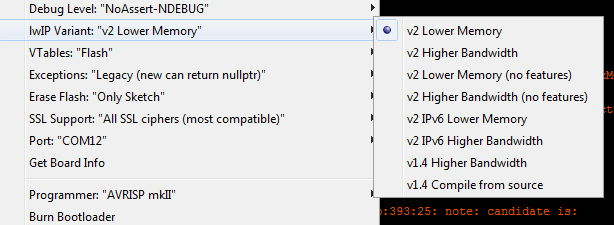
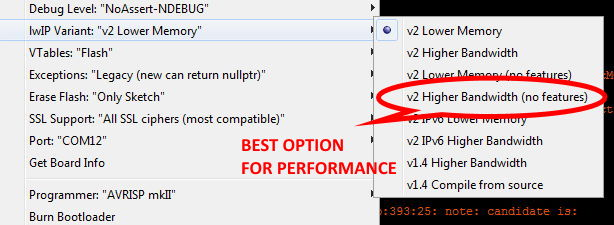
docs

Changed region(s): [[0.5879, 0.3111, 1.0, 0.56], [0.3713, 0.7156, 0.6498, 0.7778], [0.3713, 0.5911, 0.557, 0.6844]]

diff --git a/README.md b/README.md
@@ -1,13 +1,13 @@
 ![mbm](assets/pangoplain.jpg)
 
-# ArduinoIDE MQTT client library for ESP8266, ESP32 and STM32-NUCLEO
+# ArduinoIDE MQTT client library for ESP8266, ESP32 and STM32-NUCLEO*
 
-###### *Version 0.0.8 [Release Notes](docs/rn008.md)- Beta - not recommended (yet) for critical applications*
+###### Version 1.0.0 [Release Notes](docs/rn100.md) - This is a major release, API has many changes, READ THE NOTES!
 
 
 * [Features](#features)
 * [Performance](#performance)
-* [Comparison with AsyncMqttClient](#comparison-with-asyncmqttclient)
+* [Unique features](#features-you-may-not-find-in-other-libraries)
 * [Installation](#installation)
 * [Issues / Support](#issues--support)
 * [IMPORTANT NOTE FOR PLATFORMIO USERS](#important-note-for-platformio-users)
@@ -27,26 +27,18 @@
  * Full* MQTT v3.1.1 Qos0/1/2 compliance, session management and recovery
  * Payload size limited only by available heap (~20kB on ESP8266, ~120kb on ESP32)
  * TLS support (ESP8266 only)
- * Compilable diagnostics and testing topics:
-   * dump
-   * reboot
-   * disconnect
-   * break selected QoS1/2 handshakes for session recovery testing
+ * Compile time multilevel diagnostic
  * Utility functions to view binary payloads and handle as:
    * C-style string (`char*`)
    * `std::string`
    * Arduino `String`
-   * `int` from any the above string types
- * Error-handling for:
+   * < any arithmetic type >
+ * Full error-handling including:
    * QoS failures*
    * Subscribe failure
    * "Killer" packets ( > free available heap) both inbound and outbound
 
-**NB** *No device can *fully* comply with MQTT 3.1.1 QoS unless it has unlimited permanent storage to hold failed QoS messages across reboots. A future version will use LittleFS to perform this function. For more in depth explanation of the reasons, read [Challenges of MQTT QoS on embedded systems](docs/qos.md) which compares how the inevitable shortfall is handled by three different libraries:
-
-* `PubSubClient`  - not at all: QoS0 only and 128-byte payload limit
-* `AsyncMqttClient` - poorly / not at all: crashes on huge inward packets, limits outbound to 1-2kB and loses QoS1/2 recovery messages, fails to attempt session recovery and has no method of informing the user of either failure. Put simply, *it doesn't work*
-* `Pangolin` (*this* library) - as far as is technically possible, while informing the user of inevitable inherent failures.
+**NB** *No device can *fully* comply with MQTT 3.1.1 QoS unless it has unlimited permanent storage to hold failed QoS messages across reboots. For more in-depth explanation of the reasons, read [Challenges of MQTT QoS on embedded systems](docs/qos.md) 
 
 ---
 
@@ -56,127 +48,42 @@
 
 ---
 
-## Quick Start for existing users of `AsyncMqttClient`
-
-Pangolin *tries* to preserve API compatibility with `AsyncMqttClient` but that library contains illogical and incorrect features, which means that you will have to make minor changes to two or three lines of code in your existing apps before using them with Pangolin.
-
-Those have been "fixed" in this release of Pangolin *only* to make it quick and easy for users to move their apps to Pangolin with minimum effort and without compile errors, but they *will* change to "sensible" equivalents in the next release.
-
-For an in-depth analysis (with evidence) of those problems, read [API issues](api.md)
-
-Take a look at the first - very simple - example which exists in two forms: A ["P_" version](examples/QuickStart_P/QuickStart_P.ino) which uses Pangolin and an ["A_" version](examples/QuickStart_A/QuickStart_A.ino) which uses `AsyncMqttClient`. A side-by-side comparison of the two shows the very minimal changes required to get you up and running. (Also a single glance at the [comparison](#comparison-with-asyncmqttclient) of the two outputs gives a good overview of the major differences between Pangolin and `AsyncMqttClient`)
-
-The remainder of the Examples can be compiled for either Pangolin or AsyncMqttClient to allow you to compare the two libraries in the few cases where AsynClientMqtt doesn't fail. See the [Example Sketches](docs/examples.md) on how to run them and get the best out of the code.
 
 ---
 
-## A better API
+# Features you may not find in other libraries:
 
-In the table below, **CHG** = those few API calls that have *had* to be changed just to "make sense" for the first release. These serve as a handy guide to the minimum you need to change in your current code.
+## Large Payloads
 
-**DEP** calls are "deprecated" which means they will change at the next release (this automatically includes those in the CHG category)
+Pangolin automatically fragments outbound packets and reassembles inbound packets of any size up to about 1/2 the free heap. User code simply gets a copy of the full packet - irrespective of its size - without any fuss and requiring *zero* code on the user's part.
 
-**REM** shows calls which will be completely removed at the next release for one of these reasons:
+## Full QoS1 / QoS2 compatibility / recovery
 
-1. They have no practical function
-2. They have confusing and/or misleading parameters
-3. Both of the above
+PangolinMQTT's author is unaware of any similar libraries for ESP8266/ESP32 that *fully* and *correctly* implement QoS1/2 *in all circumstances*.
 
-**NEW** shows functions only available in Pangolin which provide functionality required for correct operation but which `AsyncMqttClient` does not provide.
+They *may* sometimes work, e.g. with only small packets and/or slow send rates but fail when either increases. None will correctly recover "lost" messages on unexpected disconnect. Given that this is pretty much the *only* purpose of QoS1/2 then any library *not* fulfilling this promise *cannot* legitimately claim to be QoS1/2 compatible. If a library does not do this:
 
-Missing from the table below are the following, which live in the `PANGO::` namespace and are designed to make a very simple task of *correct* payload handling.
+![mqtt spec](assets/pv2mqtt.jpg)
 
-```cpp
-void                dumphex(uint8_t* mem, size_t len,uint8_t W);
-char*               payloadToCstring(uint8_t* data,size_t len);
-int                 payloadToInt(uint8_t* data,size_t len);
-std::string         payloadToStdstring(uint8_t* data,size_t len);
-String              payloadToString(uint8_t* data,size_t len);
-```
+Then it ***does not support QoS1/2*** no matter what claims it may make.
 
-**TODO** Update diagram
-
-![api](assets/api.jpg)
-
-Full details, explanation and rationale for the changes [here](docs/api.md)
-
-## And NONE of this (so far: it's "alpha"!)
-
-![setwill](assets/willtopic_shark.jpg)
-
----
-
-# Comparison with AsyncMqttClient
-
-This is the screenshot of the outputs of the two versions of the first example sketch, the first running [`AsyncMqttClient`](examples/QuickStart_A/QuickStart_A.ino) and the  second running [Pangolin](examples/QuickStart_P/QuickStart_P.ino)
-
-![cpmpare](assets/compare.jpg)
-
-As you can see there are (at least) four major benefits of using Pangolin over `AsyncMqttClient` right from the start:
-
-## 1 Large Payloads
-
-### Executive summary
-
-Pangolin handles any sized payload up to 1/2 the available heap both inbound and outbound. `AsyncMqttClient` cannot properly handle even medium-sized packets outbound and simply makes no attempt to handle large inbound packets, expecting the user to do it. [Read more](docs/bugs.md)
-
-### TL;DR The `AsyncMqttClient` way
-
-`AsyncMqttClient` can only *correctly* handle a maximum *outbound* payload size* of the TCP MSS size*. "What's that?" I hear you ask. Exactly. It's an implementation-dependent value that `AsyncMqttClient` provides no way for you to discover. It changes according to the ArduinoIDE build settings.
-
-![tcp mss](assets/lwip.jpg)
-
-If you choose the "Lower Memory" option it is 536, "Higher Bandwith" gives you 1460. Despite the fact that ArduinoIDE allocates 2x this size (e.g. 1072 vs 2920) it seems that `AsyncMqttClient` has ["issues"](docs/bugs.md) dealing with anything over the buffer size.
-
-### TL;DR The Pangolin way
-
-Pangolin automatically fragments outbound packets and reassembles inbound packets of any size up to about 1/2 the free heap. User code simply gets a copy of the full packet - irrespective of its size - without any fuss and requiring *zero* code on his/her part.
-
-It also provides a new function `getMaxPayloadSize` and a new `onError` callback that allows the users to safely and informatively handle any "killer packet" scenario without crashing.
-
-## 2 *Significant* performance improvements
-
-### Executive Summary
-
-Pangolin is simply faster, full stop. The exact amount depends to a great extent on the size / frequency / combination of inbound/outbound messages, but in certain instances can show *huge* improvements. See the [examples](docs/examples.md) for more detail.
-
-## 3 Additional functionality
-
-### Executive Summary
-
-`AsyncMqttClient` seems to assume all payloads are strings. Not only is *not* the case, but it provides no functions to assist the user in examining, parsing, converting  or "unpacking" the payload.
-
-Pangolin provides:
-
-```cpp
-void                dumphex(uint8_t* mem, size_t len,uint8_t W);
-char*               payloadToCstring(uint8_t* data,size_t len);
-int                 payloadToInt(uint8_t* data,size_t len);
-std::string         payloadToStdstring(uint8_t* data,size_t len);
-String              payloadToString(uint8_t* data,size_t len);
-```
-
----
-
-## 4 Stability
-
-Pangolin is "alpha" so *of course* it is likely to contain bugs. What *can* be said though is that whatever yet-to-be-found bugs it may still contain, even at this first release it does *not* contain the bug that causes `AsyncMqttClient` to regularly (but at random) enter a disconnect/reconnect cycle - which is *so* common it will be referred to from now as "DCX/CNX". Neither does it contain the bug which prevents AsyncMqttClient from totally failing to implement QoS1 and 2, nor any of the other 16 fatal bugs in AsyncMqttClient [listed here](docs/bugs.md)
-
-At the time of writing, a "soak test" of the [Session Recovery 2 example sketch](examples/SessionRecovery2/SessionRecovery2.ino) shows that PangolinMQTT has been running for 426023 seconds (118.34 hours, 4.93 days) without a single reconnection or message lost, while sending and receiving a QoS2 message every second.
-
-![soak](/assets/soak.jpg)
+Pangolin has been tested to be QoS1/2 compatible and contains 2 [example sketches](examples/SessionRecovery1/SessionRecovery1.ino) to demonstrate this feature.
 
 ---
 
 # Installation
 
-Pangolin depends upon the excellent libraries [ESPAsyncTCP](https://github.com/me-no-dev/ESPAsyncTCP) (for ESP8266 targets) or [AsyncTCP](https://github.com/me-no-dev/AsyncTCP) for ESP32 targets.
+Pangolin depends upon [ESPAsyncTCP](https://github.com/me-no-dev/ESPAsyncTCP) (for ESP8266 targets) or [AsyncTCP](https://github.com/me-no-dev/AsyncTCP) for ESP32 targets.
 
-You will need to install one or both of those before using Pangolin
+You will need to install one or both of those before using Pangolin.
 
-See also [Using TLS](docs/tls.md) for additional dependencies
+HOWEVER: [ESPAsyncTCP](https://github.com/me-no-dev/ESPAsyncTCP) ***contains a serious bug which prevents it compiling with SSL when using TLS secure connections***. 
 
-See also [STM32 targets](docs/stm32.md) for additional dependencies and information on using Pangolin on STM32-NUCLEO boards
+PangolinMQTT's author has provided a bugfix version of the above library, see [Using TLS](docs/tls.md) for additional information
+
+## Compiling
+
+![performance](assets/lwip.jpg)
 
 ---
 
@@ -184,22 +91,41 @@ See also [STM32 targets](docs/stm32.md) for additional dependencies and informat
 
 ## IMPORTANT NOTE FOR PLATFORMIO USERS
 
-Pangolin is an *Arduino library*, and is 100% compatible with the ArduinoIDE and build system. PlatformIO, sadly, ***is not***. If PlatformIO has problems with code that compiles and runs correctly under ArduinoIDE, then it is a ***PlatformIO problem***, not an issue with this - or any other - valid Arduino library.
+Pangolin is an *Arduino library*, and is 100% compatible with the ArduinoIDE and its build system. PlatformIO, sadly, ***is not***. If PlatformIO has problems with code that compiles and runs correctly under ArduinoIDE, then it is a ***PlatformIO problem***, not an issue with this - or any other - valid Arduino library.
 
-For over 3 years I have been notifying the PlatformIO team of errors in their build setting related to the use of non-standard and non ArduinoIDE-compatible architecture #defines which break *many* vaild Arduino libraries. For over 3 years they have failed to fix it,so I refuse to provide any support on any of my 100% Arduino compatible libraries for users of PlatformIO until they do.
-
-For this reason, I will not accept any issues relating to build problems with PlatformIO, nor any pull requests or other suggestions which involve any changes that render the library less than 100% ArduinoIDE compatible. If you don't like this, you have two options:
+For well over 3 years I have been notifying the PlatformIO team of errors in their build setting related to the use of non-standard and non ArduinoIDE-compatible architecture #defines which break *many* valid Arduino libraries. They have failed persitently to fix their own problems, so I will not accept any issues relating to build problems with PlatformIO, nor any pull requests nor other suggestions which involve any changes that render the library less than 100% ArduinoIDE compatible. If you don't like this, you have two options:
 
 * Petition, moan, complain to PlatformIO dev team to make it 100% Arduino-compatible
-* Use another library: my position ***will not change*** until PlatformIO ~~get off their lazy asses~~ fix their problems
+* Use another library: my position ***will not change*** until PlatformIO ~~get off their lazy asses~~ fix their problems, so don't waste your time or mine asking.
 
 ## Non PlatformIO-related issues
 
-Obviously I will check the issues here from time to time, but if you want a rapid resonse, I can usually be found moderating on of these FB groups, including a new one especially set up for Pangolin users:
+Your **first** point of contact should be one of the facebook groups below, if only to let me know you have raised an issue here. Obviously I will check the issues from time to time, but I do no have the time to check every day.
+
+If you want a rapid response, I am daily moderating those FB groups, including a new one especially set up for Pangolin users:
+
+## Before submitting an issue
+
+If you do not provide sufficient information for me to be able to replicate the problem, ***I CANNOT FIX IT***
+
+So, always provide: the MCU/board type, a good description of the problem, how / when / why it happens and how to recreate it, as well as the full source code, relevant Serial output messages and a DECODED stack trace in the event of a crash.
+
+## And finally...
+
+This is open-source, I do it in my own time, for free. If you want professional-level support because you are using *my* work to benefit your own commercial gain, then I'm happy to talk privately about a paid contract. Or you can support me on [Patreon](https://www.patreon.com/esparto) 
+
+Until then, be polite, accept my advice / decisions gracefully or you will be blocked: it's that simple.
+
+---
+
+## Find me daily in these FB groups
 
 * [Pangolin Support](https://www.facebook.com/groups/pangolinmqtt/)
 * [ESP8266 & ESP32 Microcontrollers](https://www.facebook.com/groups/2125820374390340/)
 * [ESP Developers](https://www.facebook.com/groups/ESP8266/)
 * [H4/Plugins support](https://www.facebook.com/groups/h4plugins)
+
+I am always grateful for any $upport on [Patreon](https://www.patreon.com/esparto) :)
+
 
 (C) 2020 Phil Bowles

diff --git a/docs/tls.md b/docs/tls.md
@@ -9,24 +9,45 @@ Unfortunately the standard [ESPAsyncTCP](https://github.com/me-no-dev/ESPAsyncTC
 
 You must replace that library with this [bugfixed version](https://github.com/philbowles/ESPAsyncTCP)
 
-# Code
+# Compiling with SSL
 
-You must provide a SHA1 fingerprint to confirm the server identity, and call `serverFingerprint` before connection, e.g.
+SSL Features are NOT available by default. This is because they add about 64k to the binary, *even if you don't use them*! 
+
+In order to use TLS, you first need to enable SSL in both the [bugfixed library](https://github.com/philbowles/ESPAsyncTCP): Edit `async_config.h` 
+and PangolinMQTT itself: Edit `config.h`
+
+In both files, find the line which says:
+`#define ASYNC_TCP_SSL_ENABLED 0`
+
+and change it to:
+`#define ASYNC_TCP_SSL_ENABLED 1`
+
+before compiling.
+
+# Your Code
+
+You must provide a 20-byte SHA1 fingerprint to confirm the server identity, and call `serverFingerprint` before connection, e.g.
 
 ```cpp
 ...
 const uint8_t cert[20] = { 0x9a, 0xf1, 0x39, 0x79,0x95,0x26,0x78,0x61,0xad,0x1d,0xb1,0xa5,0x97,0xba,0x65,0x8c,0x20,0x5a,0x9c,0xfa };
 ...
   mqttClient.serverFingerprint(cert);
+  ...
+  mqttClient.connect(...
 ...
 ```
 
-# Example sketches
+---
 
-quickstart bare size: 271052
-+ TLS = 334604
-diff 63552
+## Find me daily in these FB groups
+
+* [Pangolin Support](https://www.facebook.com/groups/pangolinmqtt/)
+* [ESP8266 & ESP32 Microcontrollers](https://www.facebook.com/groups/2125820374390340/)
+* [ESP Developers](https://www.facebook.com/groups/ESP8266/)
+* [H4/Plugins support](https://www.facebook.com/groups/h4plugins)
+
+I am always grateful for any $upport on [Patreon](https://www.patreon.com/esparto) :)
 
 
-
-Apart from the "QuickStart_X" and STM32 sketches, the examples include a simple `#define ASYNC_TCP_SSL_ENABLED` at the head of the sketch. Set your own `cert` finfingerprint and make sure `ASYNC_TCP_SSL_ENABLED` is defined - the rest happens automatically.
+(C) 2020 Phil Bowles
